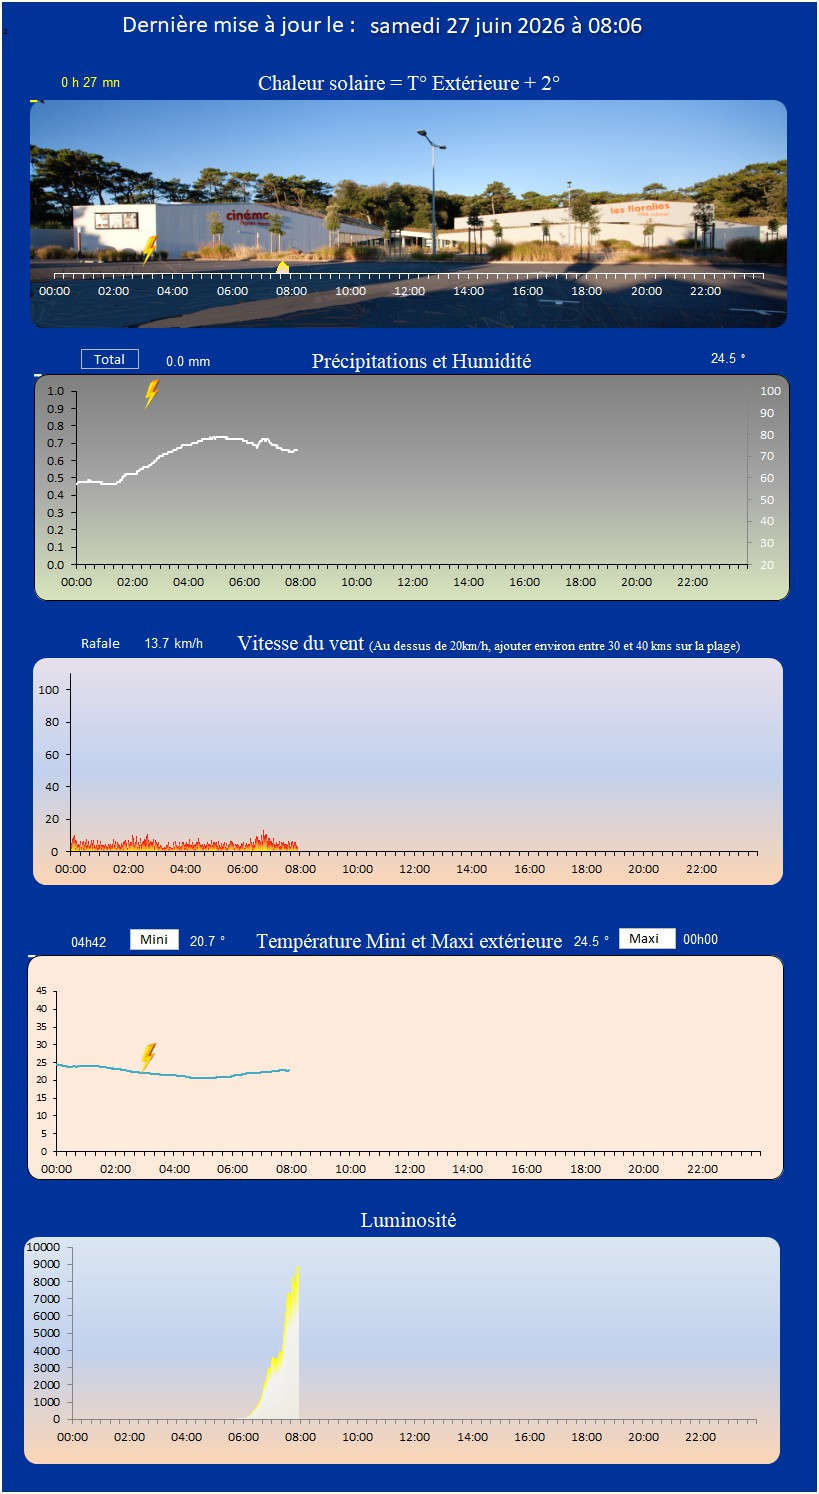
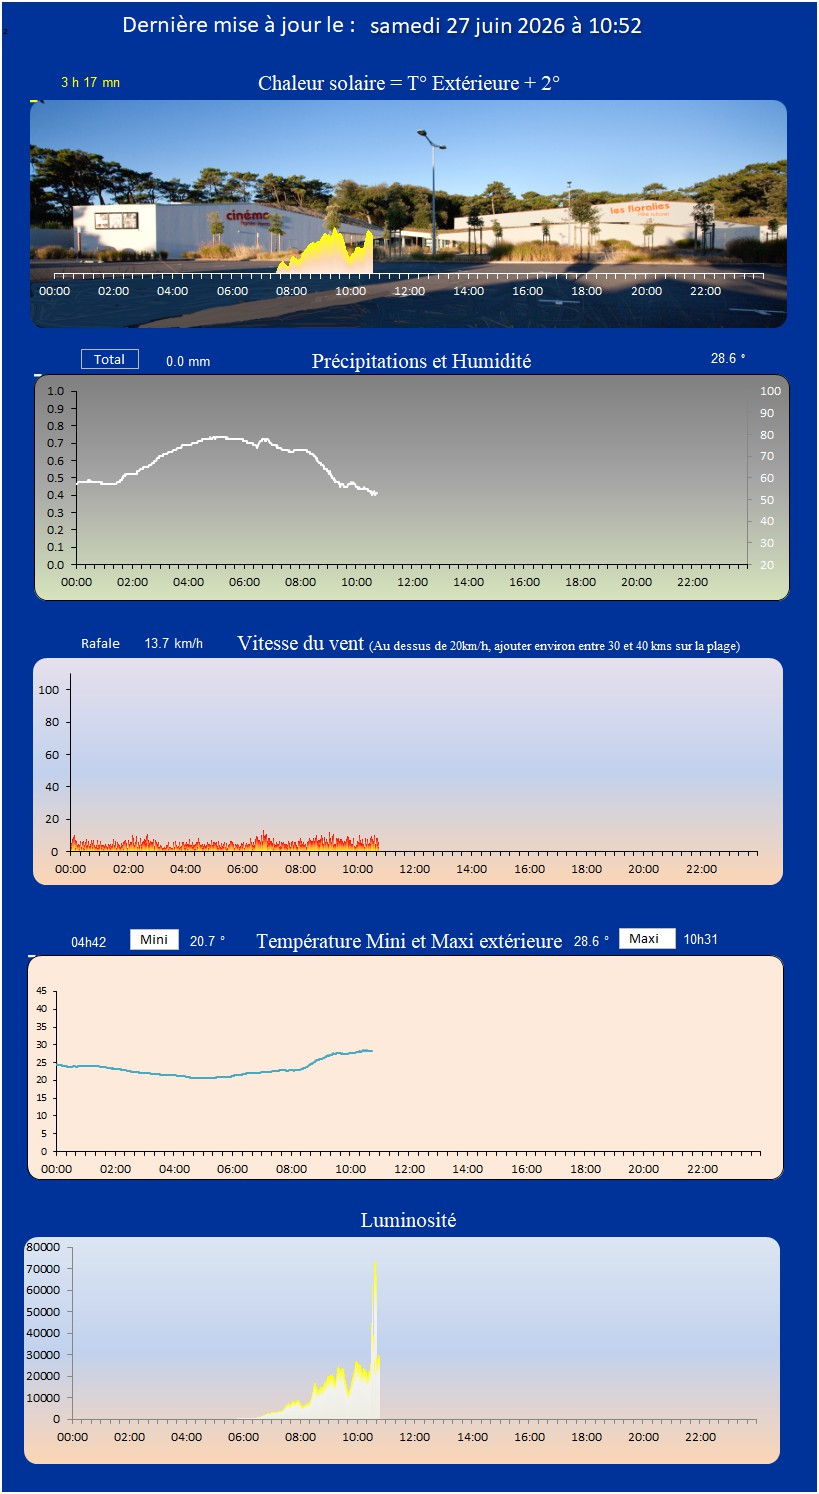
Add files via upload

diff --git a/2026/Juin/Pluie.html b/2026/Juin/Pluie.html
@@ -176,7 +176,7 @@ var datas = { //on définit le texte à afficher pour chaque cellule
 'cell_R25C05': '',
 'cell_R25C06': '',
 /* ---26ème jour--- */
-'cell_R26C03': '',
+'cell_R26C03': 'il a plu:<br>de 01h57 à 03h25',
 'cell_R26C04': '',
 'cell_R26C05': '',
 'cell_R26C06': '',